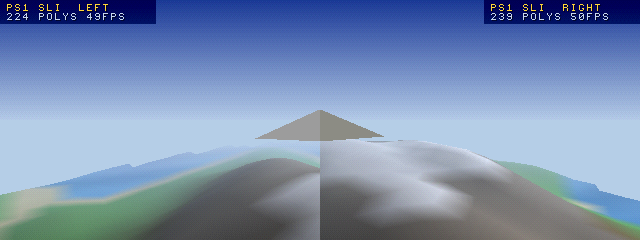
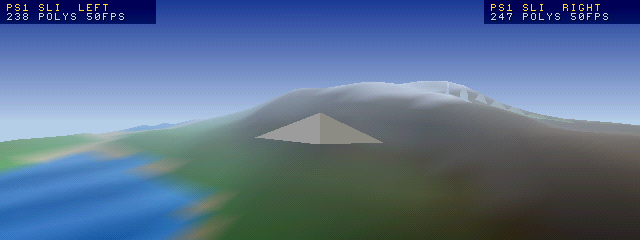
PS1 SLI: screenshot of both consoles on the same frame

diff --git a/demos/sli/sli.c b/demos/sli/sli.c
@@ -507,6 +507,9 @@ static int		delay = 3;
 typedef struct { uint16_t buttons; uint8_t check, valid; } Input;
 
 static Input	mine[RING], theirs[RING];
+// For screenshots, set from the computer (ps1transfer -poke) on both consoles: the world stops at this frame (both on
+// the same frame: the two halves of one picture), until it is set further again
+uint32_t		freeze_frame = 0xFFFFFFFF;
 static uint8_t	checks[RING];				// World check after each frame
 static uint32_t	sim_frame, made_frame, peer_need;	// Next frame to simulate, next input to make, the peer's wait
 static int		linked, my_id, out_of_step, usb, errors, restart_send, restarts;
@@ -775,7 +778,7 @@ static void	Lockstep(uint16_t buttons)
 		in->valid = 1;
 		made_frame++;
 	}
-	for (steps = 0; steps < 2; steps++)
+	for (steps = 0; (steps < 2) && (sim_frame < freeze_frame); steps++)
 	{
 		Input	*a = &mine[sim_frame % RING], *b = &theirs[sim_frame % RING];
 

diff --git a/demos/sli/README.md b/demos/sli/README.md
@@ -8,8 +8,9 @@ into the sky, with a ship that either controller steers.
   <img src="../../screenshots/ps1/sli.png" alt="The two consoles' screens side by side: one landscape across both, the coastline continuing over the join, the ship in the middle." width="100%">
 </p>
 
-These are the two consoles' screens, captured at the same moment and put side by side: the left half from one
-PlayStation, the right half from the other. Each runs at 50 fps.
+These are the two consoles' screens put side by side: the left half from one PlayStation, the right half from the
+other. Each runs at 50 fps. For the picture, both were stopped on the same frame (`freeze_frame` in sli.c, a test hook
+set with `ps1transfer -poke`), because reading a screen takes longer than a frame.
 
 ## How it works
 
